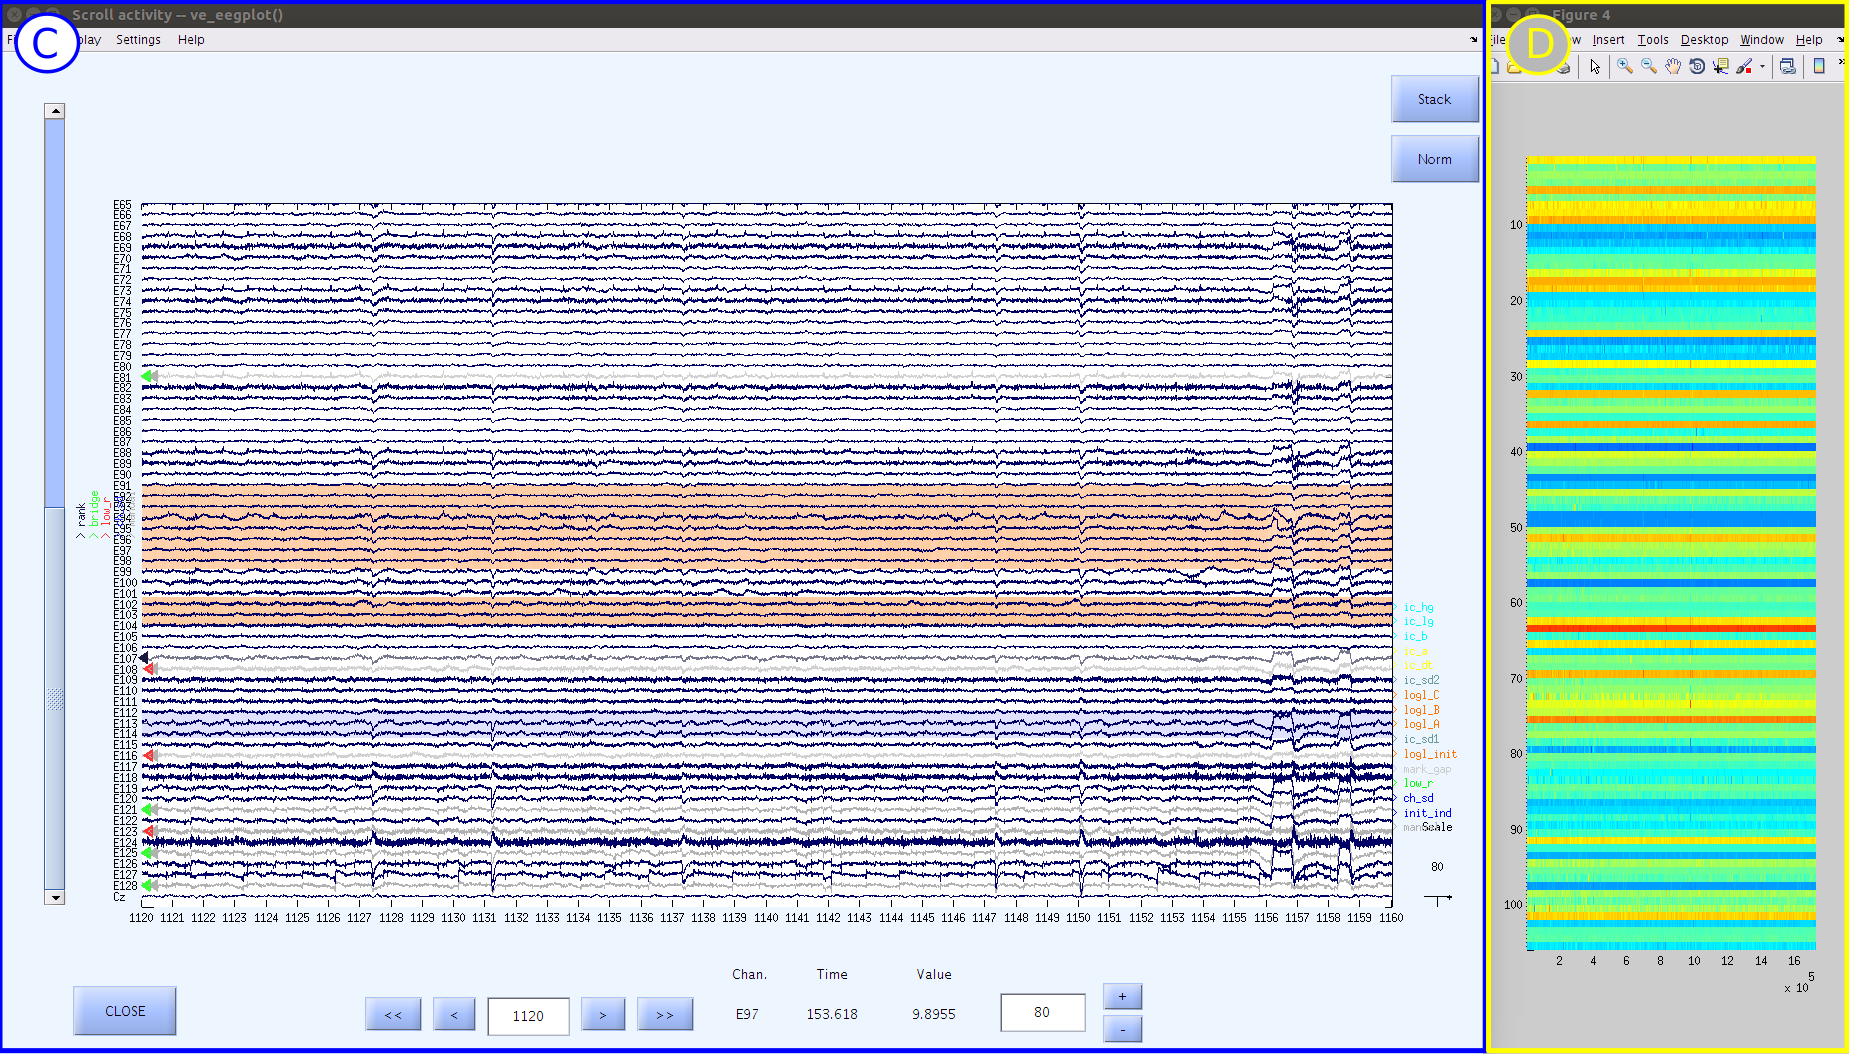
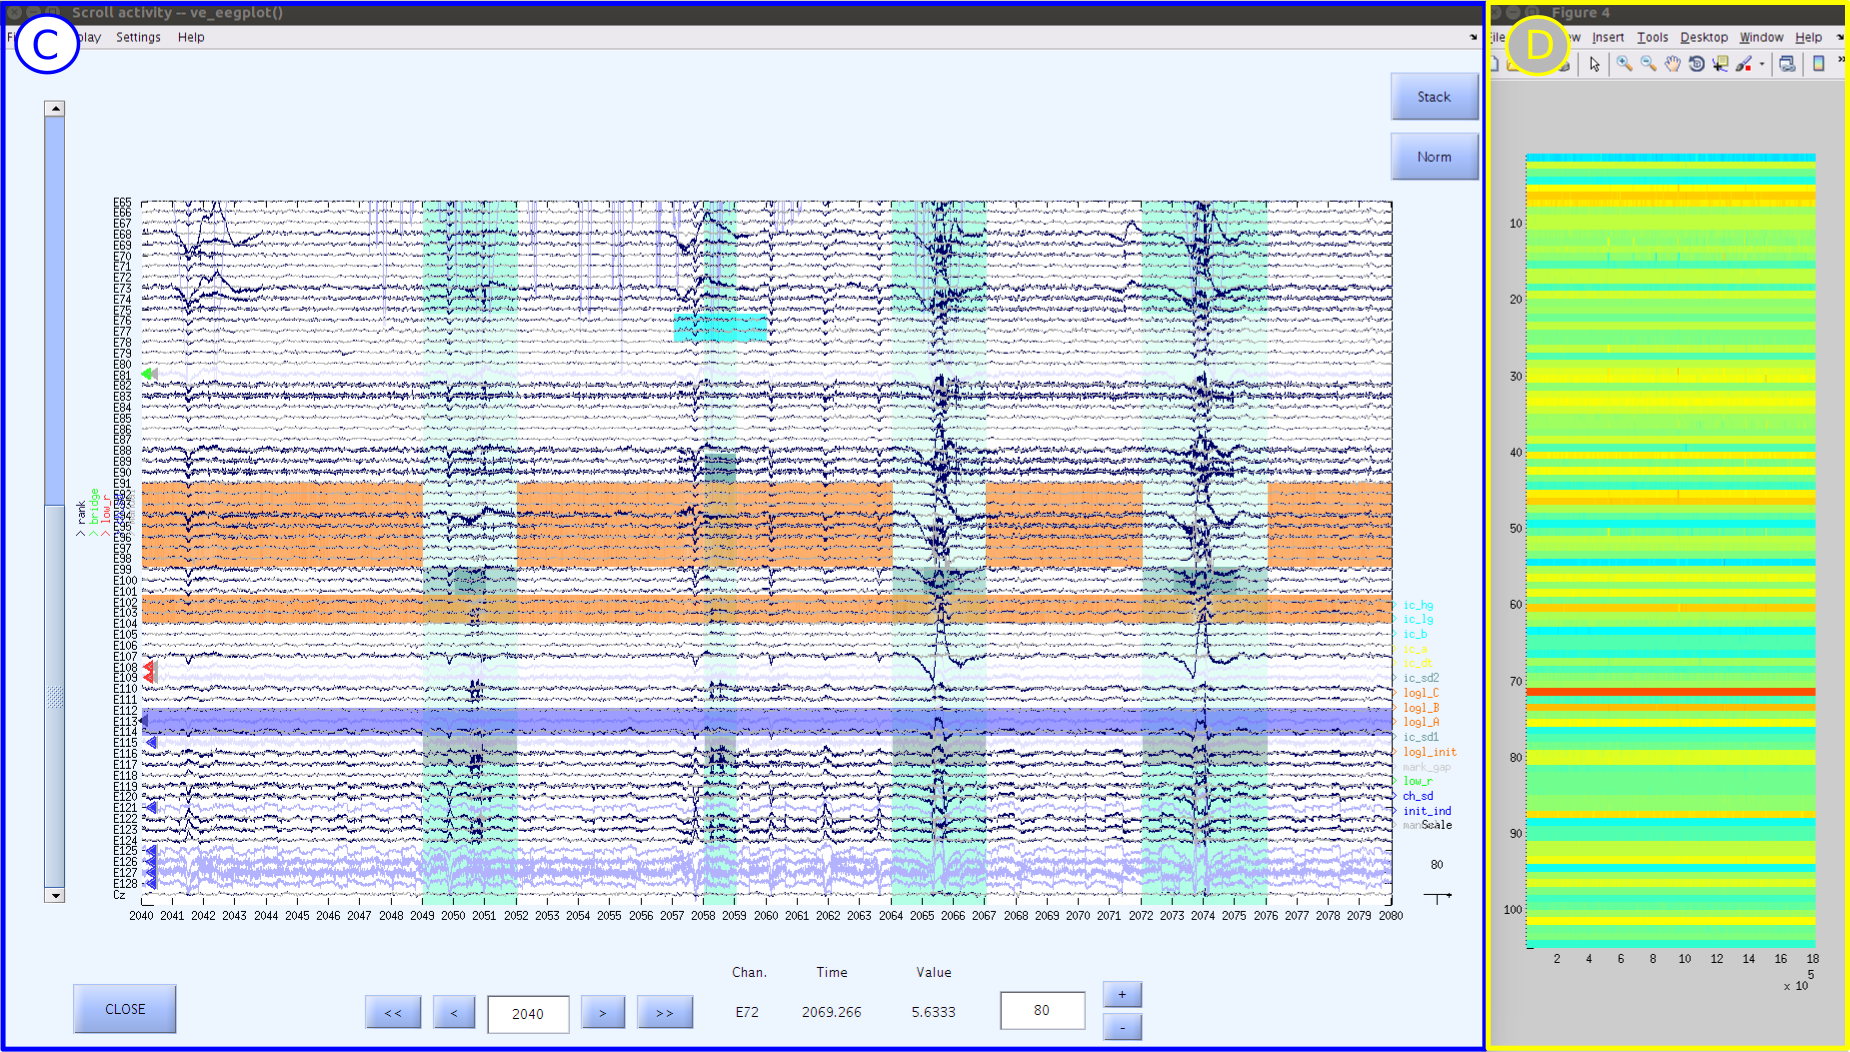
figure formatting and updates

diff --git a/_episodes/04-making_decisions_about_the_data.md b/_episodes/04-making_decisions_about_the_data.md
@@ -39,22 +39,22 @@ The pipeline will manually mark out components when ICLabel considers them prima
 > {: .source}
 >
 > > ## See flow chart
-> > ![Flow Chart 1]({{ page.root }}/fig/qc_flowchart_01.png){:height="580px" width="408px"}
+> > ![Flow Chart 1]({{ page.root }}/fig/qc_flowchart_01.png "Flow Chart 1"){:height="580px" width="408px"}
 > >
 > > {: .output}
 > {: .solution}
 >
-> > ## Example 1
+> > ## Example A
 > >
-> > ![Scroll Plot 1a]({{ page.root }}/fig/qc_example_01a.png)
+> > ![Scroll Plot 1a]({{ page.root }}/fig/qc_example_01a.png "Scroll Plot - Example 1a")
 > > Component 11 in this example has a large artefact that is affecting the EEG channel data and the rest of the component is flat. Because the rest of the component does not appear to contain much cortical data, it is preferable to remove the component with the isolated artefact compared to removing time.
 > >
 > > {: .output}
 > {: .solution}
 >
-> > ## Example 2
+> > ## Example B
 > >
-> > ![Scroll Plot 1b]({{ page.root }}/fig/qc_example_01b.png)
+> > ![Scroll Plot 1b]({{ page.root }}/fig/qc_example_01b.png "Scroll Plot - Example 1b")
 > > There are many large artefacts in otherwise flat components. Although there are several artefacts at the same time, they are all occurring in components that are otherwise flat. Removing each of these components would be the best decision here.
 > >
 > > {: .output}
@@ -68,14 +68,14 @@ The pipeline will manually mark out components when ICLabel considers them prima
 > {: .source}
 >
 > > ## See flow chart
-> > ![Flow Chart 2]({{ page.root }}/fig/qc_flowchart_02.png){:height="580px" width="408px"}
+> > ![Flow Chart 2]({{ page.root }}/fig/qc_flowchart_02.png "Flow Chart 2"){:height="580px" width="408px"}
 > >
 > > {: .output}
 > {: .solution}
 >
-> > ## Example 1
+> > ## Example A
 > >
-> > ![Scroll Plot 2]({{ page.root }}/fig/qc_example_02.png)
+> > ![Scroll Plot 2]({{ page.root }}/fig/qc_example_02.png "Scroll Plot - Example 2a")
 > > At 1141 seconds, there is what appears to be an artefact in component 11. However when looking at the EEG channel data, there is no significant artefact at this time point. Using the projected overlay is particularly helpful for determining that data with the remaining components is clean. Because the EEG channel data appears to be within a reasonable range across all channels at that time point, we can leave the component and time period in.
 > >
 > > {: .output}
@@ -89,31 +89,31 @@ The pipeline will manually mark out components when ICLabel considers them prima
 > {: .source}
 >
 > > ## See flow chart
-> > ![Flow Chart 3]({{ page.root }}/fig/qc_flowchart_03.png){:height="580px" width="408px"}
+> > ![Flow Chart 3]({{ page.root }}/fig/qc_flowchart_03.png "Flow Chart 3"){:height="580px" width="408px"}
 > >
 > > {: .output}
 > {: .solution}
 >
-> > ## Example 1
+> > ## Example A
 > >
-> > ![Scroll Plot 3a]({{ page.root }}/fig/qc_example_03a.png)
+> > ![Scroll Plot 3a]({{ page.root }}/fig/qc_example_03a.png "Scroll Plot - Example 3a")
 > > During the time periods around 585-587 seconds and 597-599 seconds, there are several components that contain artefacts. For these time periods, we would answer no to the first question because several components that have artefacts are not flat. For the second question, we would answer yes because several channels are being affected by these artefacts in the scalp EEG data. For the third question, we would answer yes because there are multiple components with artefacts during this time period. In this example, we would prefer to flag the time period for removal over removing every component that has an artefact. We would have to remove too many components in order to clean up this time period so it is better to remove the time period instead. We can also use the orange AMICA marks to help make this decision. The lighter highlight that is seen during this time period indicates that the three parallel AMICA procedures did not replicate during this time period.
 > >    
 > >
 > > {: .output}
 > {: .solution}
 >
-> > ## Example 2
+> > ## Example B
 > >
-> > ![Scroll Plot 3b]({{ page.root }}/fig/qc_example_03b.png)
+> > ![Scroll Plot 3b]({{ page.root }}/fig/qc_example_03b.png "Scroll Plot - Example 3b")
 > > At the time period around 597-599 seconds, several components have artefacts and the AMICA orange highlight is lighter during this period. Removing this time period would be the best decision here.
 > >
 > > {: .output}
 > {: .solution}
 >
-> > ## Example 3
+> > ## Example C
 > >
-> > ![Scroll Plot 3c]({{ page.root }}/fig/qc_example_03c.png)
+> > ![Scroll Plot 3c]({{ page.root }}/fig/qc_example_03c.png "Scroll Plot - Example 3c")
 > > At the time period around 542-544 seconds, several components have artefacts and the AMICA orange highlight is lighter during this period. Removing this time period would be the best decision here.
 > >
 > > {: .output}
@@ -127,15 +127,15 @@ The pipeline will manually mark out components when ICLabel considers them prima
 > {: .source}
 >
 > > ## See flow chart
-> > ![Flow Chart 4]({{ page.root }}/fig/qc_flowchart_04.png){:height="580px" width="408px"}
+> > ![Flow Chart 4]({{ page.root }}/fig/qc_flowchart_04.png "Flow Chart 4"){:height="580px" width="408px"}
 > >
 > > {: .output}
 > {: .solution}
 >
-> > ## Example 1
+> > ## Example A
 > >
-> > ![Scroll Plot 4a]({{ page.root }}/fig/qc_example_04a.png)
-> > ![Scroll Plot 4b]({{ page.root }}/fig/qc_example_04b.png)
+> > ![Scroll Plot 4a.1]({{ page.root }}/fig/qc_example_04a1.png "Scroll Plot - Example 4a.1")
+> > ![Scroll Plot 4a.2]({{ page.root }}/fig/qc_example_04a2.png "Scroll Plot - Example 4a.2")
 > > The top cortical components are mixed with slow waves (sweat artefacts). This is an ambiguous case because on the one hand we definitely want to remove the sweat artefacts, but on the other hand we don't want to remove any cortical data. In this case we would lean towards removing these components, but we ultimately need to decide based on the projected overlay whether or not too much good cortical data appears to be removed from the scalp waveforms.
 > >     
 > > If we use the flow chart on the top two components, we would answer no to the first question because the rest of the components aren't flat. We would answer yes to the second question because the artefacts are substantially affecting the EEG channel data, and we would answer no to the third question because for most of the time periods, it is only 2 components that have large artefacts. The components have artefacts that are continually affecting the EEG channel data, so we would answer yes to question 4, which leads to marking the components as ambiguous and flagging them for removal. The artefacts are occurring too often so removing the time period for each artefact is not an option. The artefacts are also isolated to the top two components meaning that removing these components would remove the artefacts from the channel data. Although the component does appear to have some good cortical data, in this case it is best to remove these components, because the resulting projection does not appear to visibly affect areas of good cortical signal, meaning we are losing little to no cortical signal by removing these components. 
@@ -151,14 +151,15 @@ The pipeline will manually mark out components when ICLabel considers them prima
 > {: .source}
 >
 > > ## See flow chart
-> > ![Flow Chart 5]({{ page.root }}/fig/qc_flowchart_05.png){:height="580px" width="408px"}
+> > ![Flow Chart 5]({{ page.root }}/fig/qc_flowchart_05.png "Flow Chart 5"){:height="580px" width="408px"}
 > >
 > > {: .output}
 > {: .solution}
 >
-> > ## Example 1
+> > ## Example A
 > >
-> > Add image of component plot corresponding to this example (FIXME).
+> > ![Scroll Plot 5a]({{ page.root }}/fig/qc_example_05a.png "Scroll Plot - Example 5a")
+> > Components 21 and 51 appear to have at least some good cortical data in them, and they maintain a fairly consistent signal throughout the recording, but at time point 2181-2183 there is a brief but sharp spike in the component activation. Removing these components would be removing good cortical data, so in this case it would be best to remove the time period instead.
 > >
 > > {: .output}
 > {: .solution}
@@ -171,12 +172,12 @@ The pipeline will manually mark out components when ICLabel considers them prima
 > {: .source}
 >
 > > ## See flow chart
-> > ![Flow Chart 6]({{ page.root }}/fig/qc_flowchart_06.png){:height="580px" width="408px"}
+> > ![Flow Chart 6]({{ page.root }}/fig/qc_flowchart_06.png "Flow Chart 6"){:height="580px" width="408px"}
 > >
 > > {: .output}
 > {: .solution}
 >
-> > ## Example 1
+> > ## Example A
 > >
 > > Add image of component plot corresponding to this example (FIXME).
 > >
@@ -191,12 +192,12 @@ The pipeline will manually mark out components when ICLabel considers them prima
 > {: .source}
 >
 > > ## See flow chart
-> > ![Flow Chart 7]({{ page.root }}/fig/qc_flowchart_07.png){:height="580px" width="408px"}
+> > ![Flow Chart 7]({{ page.root }}/fig/qc_flowchart_07.png "Flow Chart 7"){:height="580px" width="408px"}
 > >
 > > {: .output}
 > {: .solution}
 >
-> > ## Example 1
+> > ## Example A
 > >
 > > Add image of component plot corresponding to this example (FIXME).
 > >
@@ -211,12 +212,12 @@ The pipeline will manually mark out components when ICLabel considers them prima
 > {: .source}
 >
 > > ## See flow chart
-> > ![Flow Chart 8]({{ page.root }}/fig/qc_flowchart_08.png){:height="580px" width="408px"}
+> > ![Flow Chart 8]({{ page.root }}/fig/qc_flowchart_08.png "Flow Chart 8"){:height="580px" width="408px"}
 > >
 > > {: .output}
 > {: .solution}
 >
-> > ## Example 1
+> > ## Example A
 > >
 > > Add image of component plot corresponding to this example (FIXME).
 > >

diff --git a/_episodes/03-running_QC_script.md b/_episodes/03-running_QC_script.md
@@ -56,7 +56,7 @@ keypoints:
 
     <span style="color:green">B.</span> A figure that displays the IC Label classification breakdown for each component.
 
-    <span style="color:blue">C.</span> A window that shows the channel EEG data.
+    <span style="color:blue">C.</span> A window that shows the channel EEG data. It also contains an overlay feature that can be toggled on/off or updated while quality checking. This overlay shows a projection of the remaining components not flagged as "manual" back to the scalp data and overlayed on top of the original EEG data. This allows us to see the effect of removing or adding a component back into the data while we are performing the quality check.
 
     <span style="color:yellow">D.</span> A figure that displays an array of squares corresponding to each 1-second epoch of each component. Each square is colored based on its activation difference from the mean.
 
